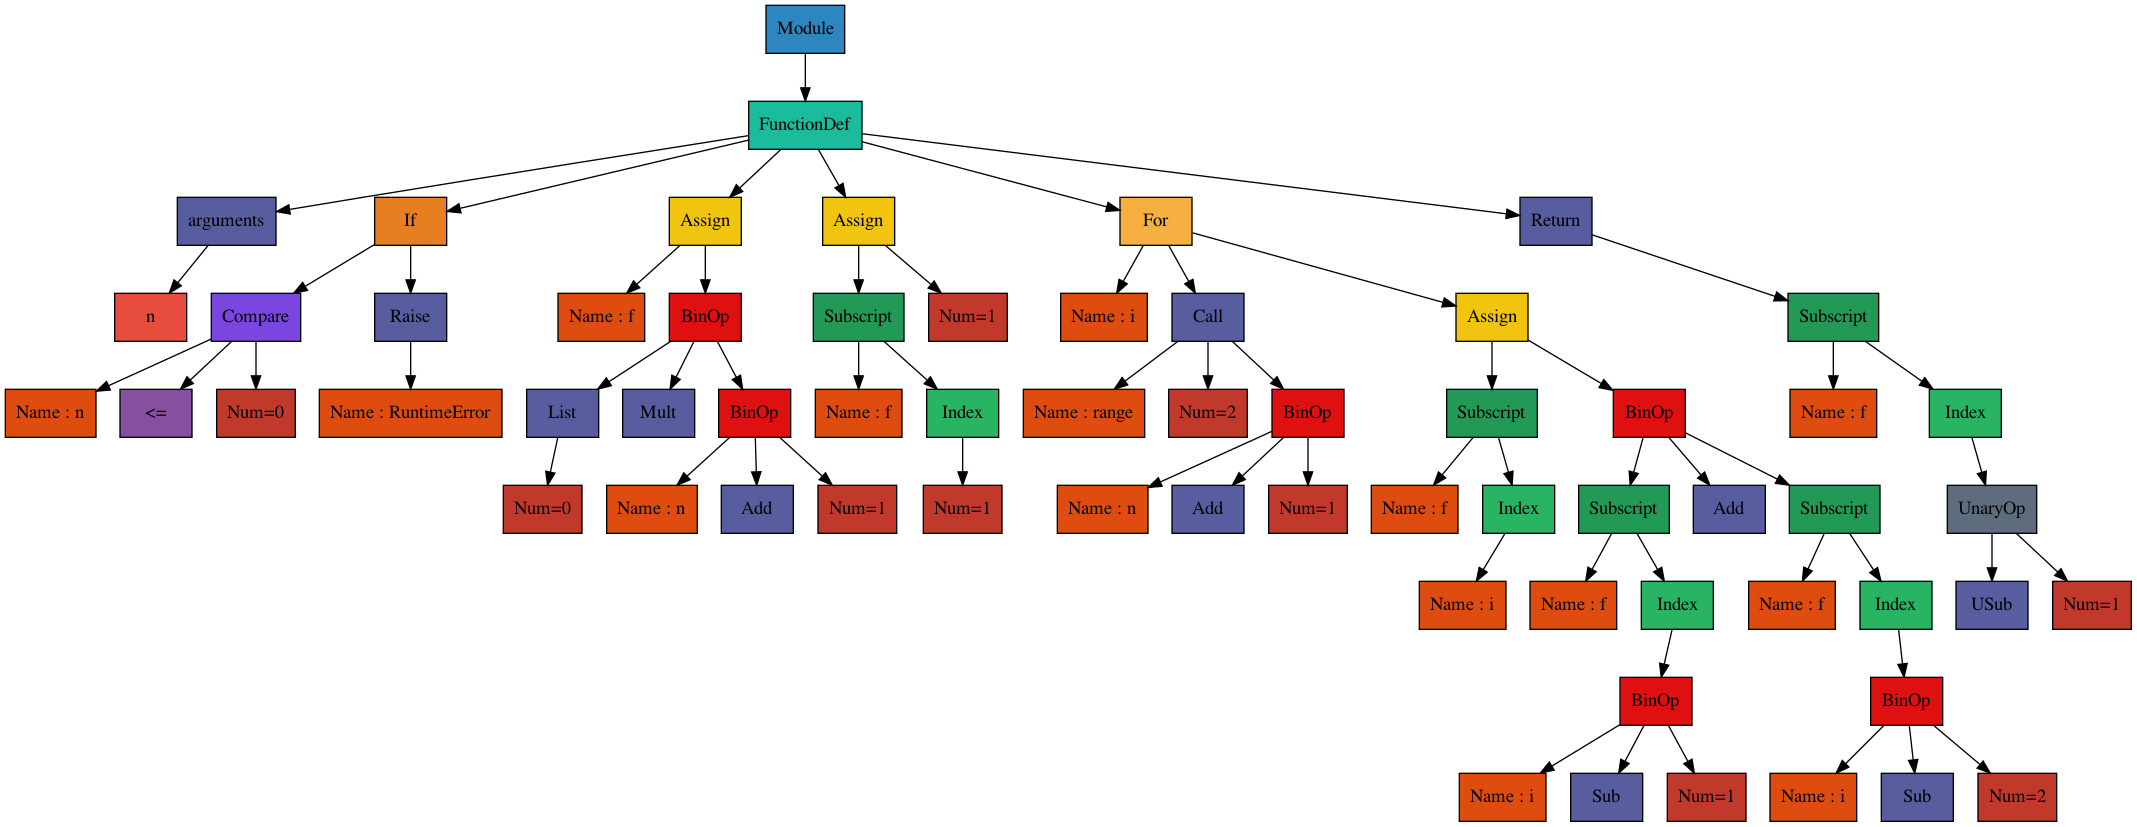
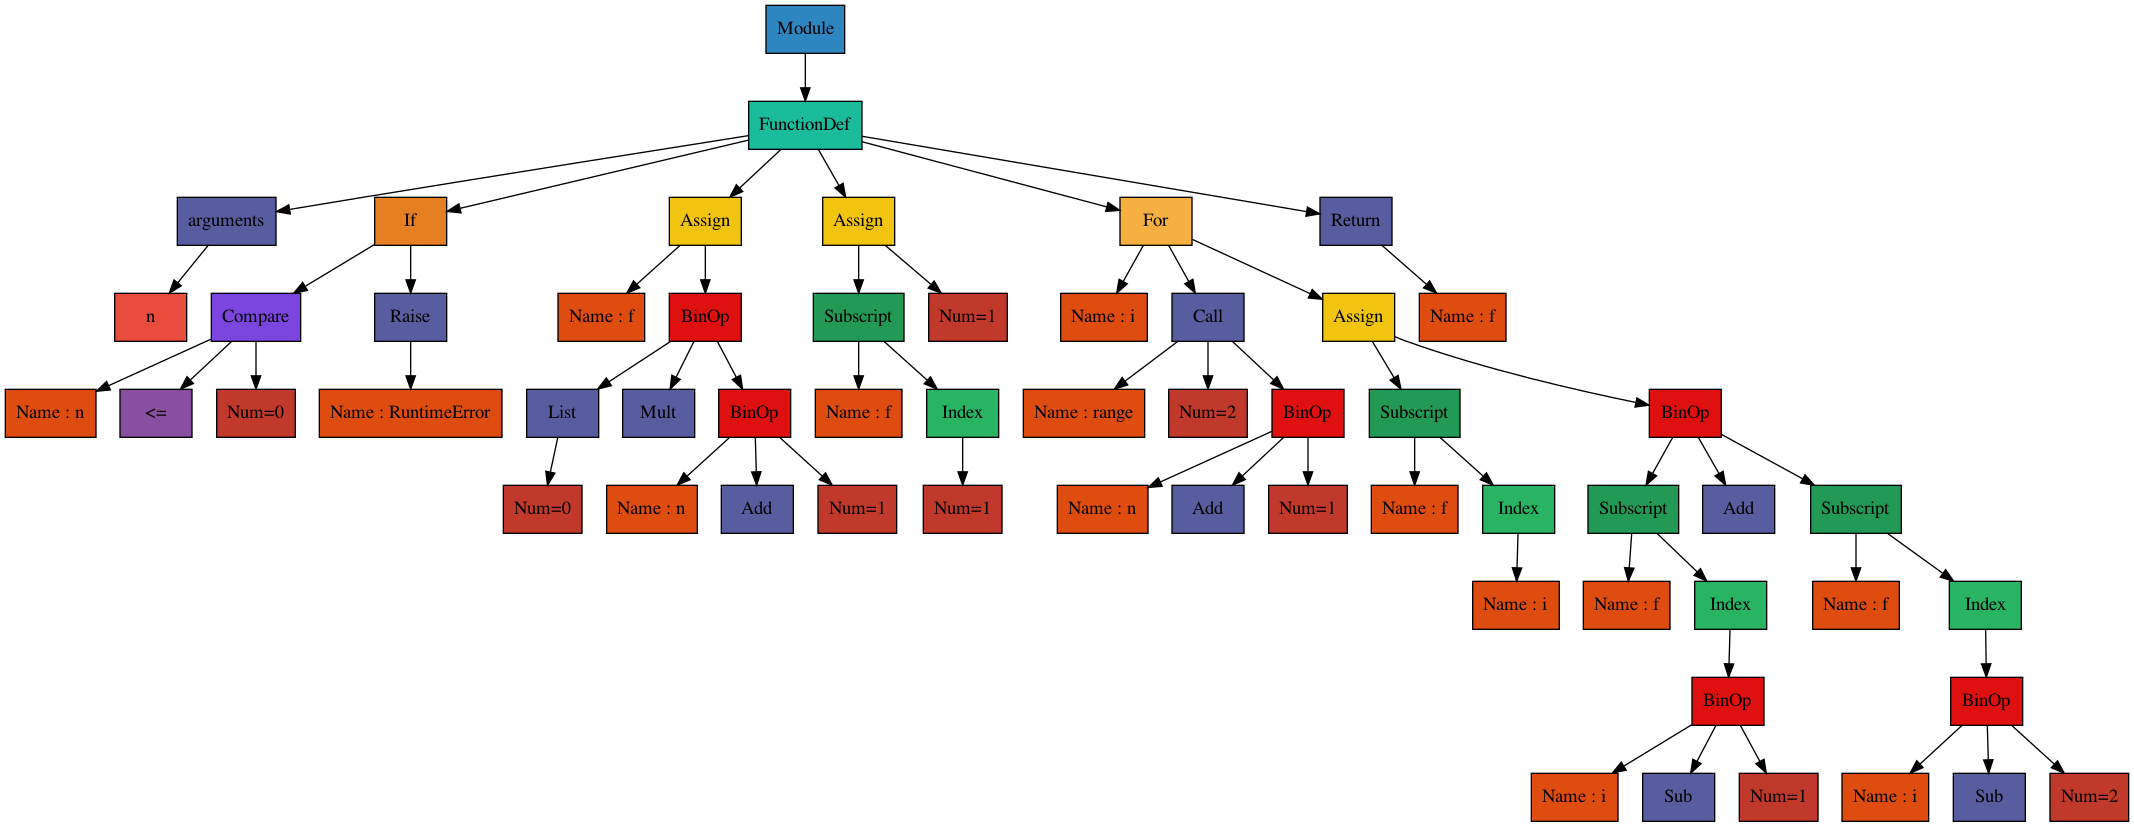
fix return

diff --git a/hw-01/fibonacci.py b/hw-01/fibonacci.py
@@ -5,4 +5,4 @@ def fibonacci(n):
     f[1] = 1
     for i in range(2, n + 1):
         f[i] = f[i - 1] + f[i - 2]
-    return f[-1]
+    return f
